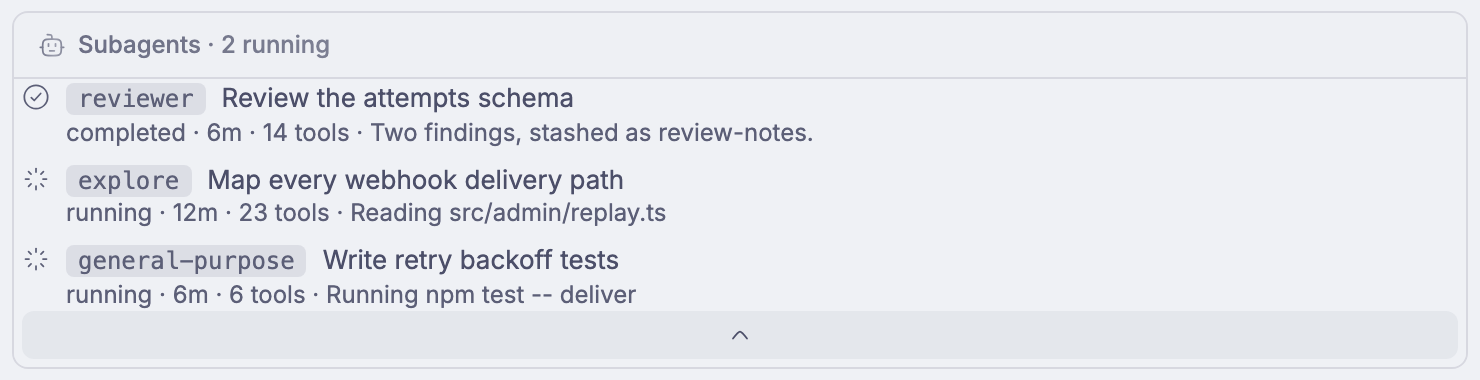
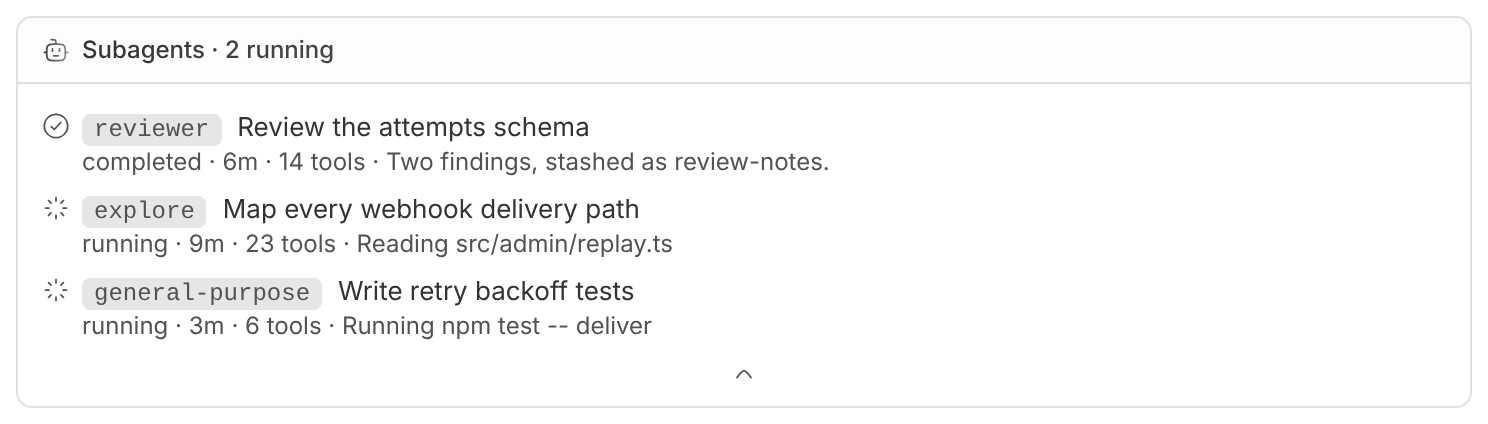
docs(bb): document stack card spacing and refresh the affected images
Claude-Session: https://claude.ai/code/session_01Mbvfx1U3Rp4yyfNx9aZLi9

diff --git a/docs/bb/ui-slots.md b/docs/bb/ui-slots.md
@@ -12,7 +12,9 @@ slot below is `experimental_` unless noted; recheck after a bb upgrade.
 ## How the screenshots were made
 
 All images show fixture data from `bb pi-surface fixture --thread <id>`, cropped
-to the plugin's own element, light theme, 2x.
+to the plugin's own element, light theme, 2x. The `bb-screenshot` skill
+(`.agents/skills/bb-screenshot/`) runs a private bb with the plugin and scripted
+Pi sessions and takes these crops; images 1 and 2 were last made with it.
 
 - **Live** images were captured from the bb web UI on loopback with headless
   Chromium, on a real thread page with the plugin installed.
@@ -52,6 +54,15 @@ description, state, duration, tool count and latest note).
 
 ![Subagents card expanded](../images/bb/stack-card-subagents.png)
 
+Spacing: bb draws the card frame, the header (`px-3 py-1.5`: a 12px inset,
+14px icon, 6px gap to the title) and the collapse row at the bottom, and wraps
+`children` with no padding of its own. The body's padding is ours: the cards
+pad it `px-3 pt-3` and give rows the header's icon size and gap, so the body has
+the header's 12px inset on the left, right and top and its icons and text line
+up under the header's. The card takes no `className`, so the header and the
+collapse row cannot change. `bb-shot.mjs --check` in the `bb-screenshot` skill
+measures this in bb.
+
 Limits:
 
 - There is no slot **below** the composer; the stack above it is the closest.
@@ -71,7 +82,9 @@ from `experimental_THREAD_CONTEXT_SEGMENT_GROUPS` (`1_thread`, `3_git`). We
 join `1_thread`.
 
 Ours is one button, `orchestrate · 3/7 tasks · 2 agents · question`, that opens
-the Pi tab.
+the Pi tab. bb puts a 4px inset around the row and leaves each segment's
+padding to its owner; ours uses bb's segment padding (`min-h-6 px-2 py-1`), so
+its icon sits 12px from the card edge like the stack cards' icons.
 
 ![Context segment](../images/bb/context-segment.png)
 
